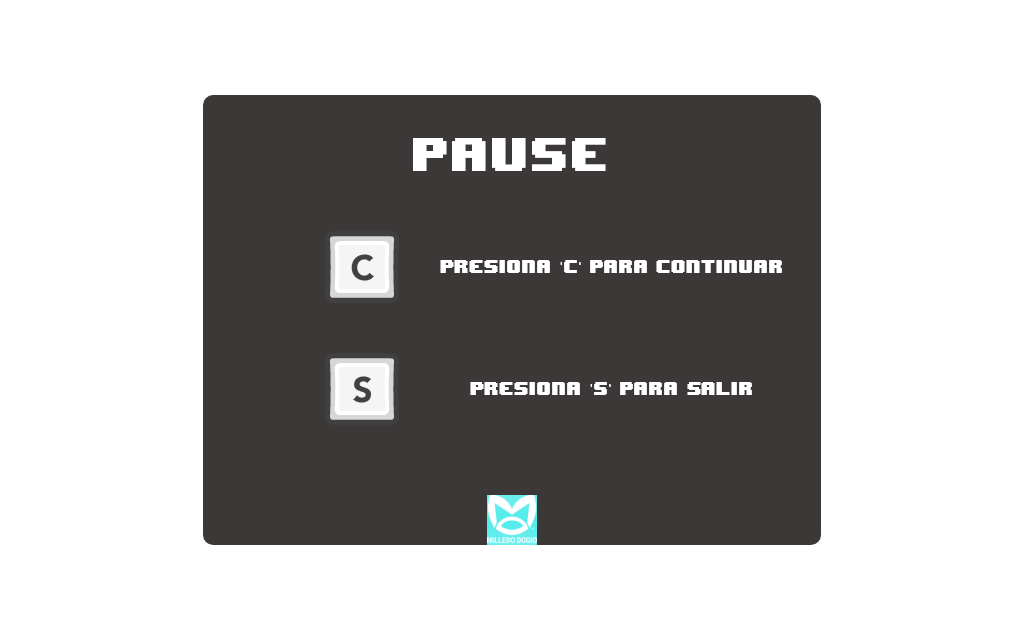
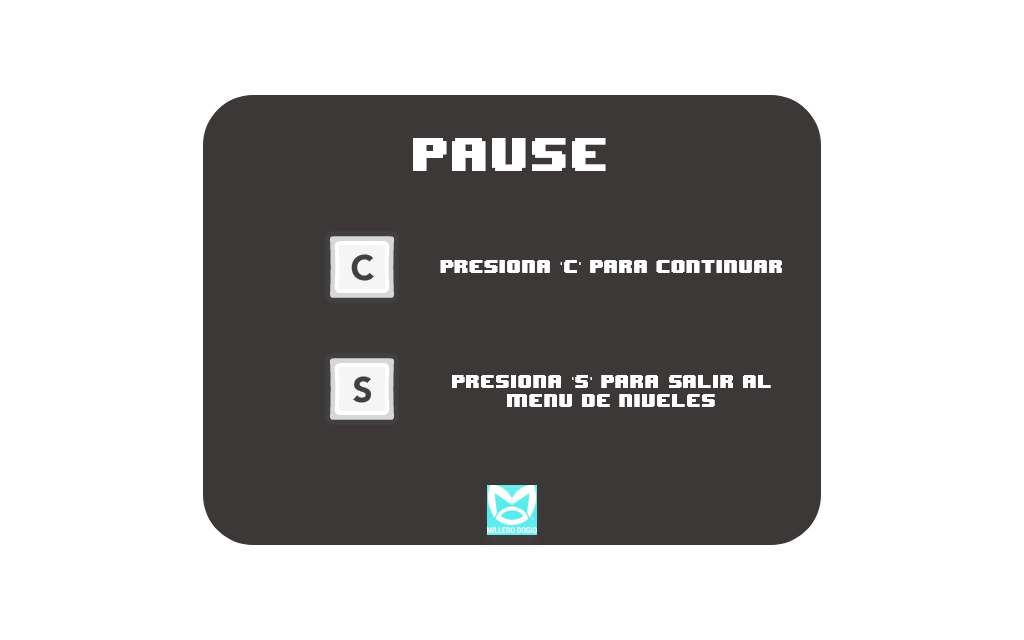
Jeje, ahi ta

diff --git a/main.py b/main.py
@@ -28,6 +28,7 @@ niveles = ['Depresion',
             'Regresar al menu principal']
 
 pause = False
+idioma = 0
 
 class Opcion:
 
@@ -252,6 +253,7 @@ class Depression_Level:
         self.walls = pg.sprite.Group()
         self.powerups = pg.sprite.Group()
         self.enemies = pg.sprite.Group()
+        self.proyectiles = pg.sprite.Group()
         self.current_frame = 0
         self.last_update = 0
         self.load_arrays()
@@ -315,6 +317,7 @@ class Depression_Level:
             if hits:
                 self.minion.pos.y = hits[0].rect.top + 1
                 self.minion.vel.y = 0
+            col_hit = pg.sprite.spritecollide(self.minion,self.proyectiles,True)
         pow_hits = pg.sprite.spritecollide(self.player, self.powerups, True)
 
             
@@ -378,8 +381,12 @@ class Depression_Level:
             self.screen.blit(sprite.image,self.camera.apply(sprite))
         self.screen.blit(self.lm,(WIDTH / 32 * 24, 0))    
         self.draw_text('Joystix.ttf', '= ' + str(self.score), 18, colors.WHITE, WIDTH / 32 * 27, 22)
-        self.draw_text('Joystix.ttf', 'Nivel de Depresion: 100%', 14, colors.WHITE, WIDTH / 32 * 25, 62)
-        self.draw_text('Joystix.ttf', 'Depresion - Area 1', 12, colors.WHITE, WIDTH / 32 * 16, 0)
+        if idioma == 0:
+            self.draw_text('Joystix.ttf', 'Depresion: 100%', 14, colors.WHITE, WIDTH / 32 * 25, 62)
+            self.draw_text('Joystix.ttf', 'Depresion - Nivel 1', 12, colors.WHITE, WIDTH / 32 * 16, 0)
+        else:
+            self.draw_text('Joystix.ttf', 'Depression: 100%', 14, colors.WHITE, WIDTH / 32 * 25, 62)
+            self.draw_text('Joystix.ttf', 'Depression - Level 1', 12, colors.WHITE, WIDTH / 32 * 16, 0)
         self.screen.blit(self.heart,(WIDTH / 32 * 13, 2))
         self.screen.blit(self.heart_2,(WIDTH / 32 * 15, 2))
         self.screen.blit(self.heart_3,(WIDTH / 32 * 17, 2))
@@ -415,7 +422,7 @@ class Depression_Level:
                     if event.key == pg.K_c:
                         self.unpased()
                     if event.key == pg.K_s:
-                        self.quitgame()
+                        select_level()
             pg.display.update()
             reloj.tick(FPS)
     
@@ -614,8 +621,12 @@ class Depression_Level_2:
             self.screen.blit(sprite.image,self.camera.apply(sprite))
         self.screen.blit(self.lm,(WIDTH / 32 * 24, 0))    
         self.draw_text('Joystix.ttf', '= ' + str(self.score), 18, colors.WHITE, WIDTH / 32 * 27, 22)
-        self.draw_text('Joystix.ttf', 'Nivel de Depresion: 75%', 14, colors.WHITE, WIDTH / 32 * 25, 62)
-        self.draw_text('Joystix.ttf', 'Depresion - Area 2', 12, colors.WHITE, WIDTH / 32 * 16, 0)
+        if idioma == 0:
+            self.draw_text('Joystix.ttf', 'Depresion: 75%', 14, colors.WHITE, WIDTH / 32 * 25, 62)
+            self.draw_text('Joystix.ttf', 'Depresion - Nivel 2', 12, colors.WHITE, WIDTH / 32 * 16, 0)
+        else:
+            self.draw_text('Joystix.ttf', 'Depression: 75%', 14, colors.WHITE, WIDTH / 32 * 25, 62)
+            self.draw_text('Joystix.ttf', 'Depression - Level 2', 12, colors.WHITE, WIDTH / 32 * 16, 0)
         self.screen.blit(self.heart,(WIDTH / 32 * 13, 2))
         self.screen.blit(self.heart_2,(WIDTH / 32 * 15, 2))
         self.screen.blit(self.heart_3,(WIDTH / 32 * 17, 2))
@@ -692,7 +703,7 @@ class Drugs_level:
         self.breath_player = Spritesheet(os.path.join(img_folder,BREATH_DRUGS))
         self.walk_player = Spritesheet(os.path.join(img_folder,WALK_DRUGS))
         self.snd_dir = os.path.join(self.dir, 'snd')
-        self.background = pg.image.load("img/City Re-Sized(Night)(Scenario).png").convert_alpha()
+        self.background = pg.image.load("img/Fondo Drogas.png").convert_alpha()
     
 
     def new(self):
@@ -811,7 +822,10 @@ class Drugs_level:
             self.screen.blit(sprite.image,self.camera.apply(sprite))
         self.screen.blit(self.img_score,(WIDTH / 32 * 24, 0))    
         self.draw_text('Joystix.ttf', '= ' + str(self.score), 18, colors.WHITE, WIDTH / 32 * 27, 22)
-        self.draw_text('Joystix.ttf', 'Drogas - Nivel 1', 12, colors.WHITE, WIDTH / 32 * 16, 0)
+        if idioma == 0:
+            self.draw_text('Joystix.ttf', 'Drogas - Nivel 1', 12, colors.WHITE, WIDTH / 32 * 16, 0)
+        else:
+            self.draw_text('Joystix.ttf', 'Drugs - Level 1', 12, colors.WHITE, WIDTH / 32 * 16, 0)
         self.screen.blit(self.heart,(WIDTH / 32 * 13, 2))
         self.screen.blit(self.heart_2,(WIDTH / 32 * 15, 2))
         self.screen.blit(self.heart_3,(WIDTH / 32 * 17, 2))
@@ -890,11 +904,11 @@ class Anorexia_Level:
                 self.highscore = int(f.read())
             except:
                 self.highscore = 0
-        self.map = Map(os.path.join(game_folder,'maps/Depression - map_1.txt'))
+        self.map = Map(os.path.join(game_folder,'maps/Anorexia - map_1.txt'))
         self.spritesheet_mariana = Spritesheet(os.path.join(img_folder,MARIANA_SPRITESHEET))
         #self.heart_anim = Spritesheet(os.path.join(img_folder,HEART_ANIM))
         #self.heart_ly_anim = Spritesheet(os.path.join(img_folder,HEART_LY_ANIM))
-        self.background = pg.image.load("img/City_Back.png").convert_alpha()
+        self.background = pg.image.load("img/Fondo Anorexia.png").convert_alpha()
         self.snd_dir = os.path.join(self.dir, 'snd')
     
 
@@ -1015,7 +1029,10 @@ class Anorexia_Level:
             self.screen.blit(sprite.image,self.camera.apply(sprite))
         self.screen.blit(self.lm,(WIDTH / 32 * 24, 0))    
         self.draw_text('Joystix.ttf', '= ' + str(self.score), 18, colors.WHITE, WIDTH / 32 * 27, 22)
-        self.draw_text('Joystix.ttf', 'Anorexia - Level 1', 12, colors.WHITE, WIDTH / 32 * 16, 0)
+        if idioma == 0:
+            self.draw_text('Joystix.ttf', 'Anorexia - Area 1', 12, colors.WHITE, WIDTH / 32 * 16, 0)
+        else:
+            self.draw_text('Joystix.ttf', 'Anorexia - Level 1', 12, colors.WHITE, WIDTH / 32 * 16, 0)
         self.screen.blit(self.heart,(WIDTH / 32 * 13, 2))
         self.screen.blit(self.heart_2,(WIDTH / 32 * 15, 2))
         self.screen.blit(self.heart_3,(WIDTH / 32 * 17, 2))
@@ -1078,7 +1095,7 @@ class Obesidad_Level:
         self.spritesheet_don_juan = Spritesheet(os.path.join(img_folder,JUAN_SPRITESHEET))
         #self.heart_anim = Spritesheet(os.path.join(img_folder,HEART_ANIM))
         #self.heart_ly_anim = Spritesheet(os.path.join(img_folder,HEART_LY_ANIM))
-        self.background = pg.image.load("img/City_Back.png").convert_alpha()
+        self.background = pg.image.load("img/Estadio_Obesity.png").convert_alpha()
         self.snd_dir = os.path.join(self.dir, 'snd')
     
 
@@ -1262,7 +1279,7 @@ class ETS_Level:
         self.spritesheet_macho = Spritesheet(os.path.join(img_folder,MACHO_SPRITESHEET))
         #self.heart_anim = Spritesheet(os.path.join(img_folder,HEART_ANIM))
         #self.heart_ly_anim = Spritesheet(os.path.join(img_folder,HEART_LY_ANIM))
-        self.background = pg.image.load("img/City_Back.png").convert_alpha()
+        self.background = pg.image.load("img/Fondo ETS.png").convert_alpha()
         self.snd_dir = os.path.join(self.dir, 'snd')
     
 
@@ -1514,8 +1531,8 @@ def exit_out():
 def language():
     if __name__ == '__main__':
         salir = False
-        opciones = [('Spanish',main_menu),
-                    ('English', main_menu),
+        opciones = [('Spanish',espanol),
+                    ('English', ingles),
                     ('Salir',exit_out)]
 
     pg.font.init()
@@ -1537,14 +1554,30 @@ def language():
         pg.time.delay(10)
     pg.display.quit()
 
+def espanol():
+    global idioma
+    idioma = 0
+    main_menu()
+
+def ingles():
+    global idioma
+    idioma = 1
+    main_menu()
+
 
 def main_menu():
     if __name__ == '__main__':
         salir = False
-        opciones = [  (opciones_espanol[0], select_level),
-                        (opciones_espanol[1], options),
-                        (opciones_espanol[2], creditos),
-                        (opciones_espanol[3], exit_out)]
+        if idioma == 0:
+            opciones = [  (opciones_espanol[0], select_level),
+                            (opciones_espanol[1], options),
+                            (opciones_espanol[2], creditos),
+                            (opciones_espanol[3], exit_out)]
+        if idioma == 1:
+            opciones = [  (opciones_ingles[0], select_level),
+                            (opciones_ingles[1], options),
+                            (opciones_ingles[2], creditos),
+                            (opciones_ingles[3], exit_out)]
 
     pg.font.init()
     screen = pg.display.set_mode((WIDTH, HEIGHT))
@@ -1564,6 +1597,32 @@ def main_menu():
 
         pg.display.flip()
         pg.time.delay(10)
+
+def options():
+    if __name__ == '__main__':
+        salir = False
+        opciones = [('Cambiar Idioma',language),
+                    ('Audio', ingles),
+                    ('Regresar',main_menu)]
+
+    pg.font.init()
+    screen = pg.display.set_mode((WIDTH, HEIGHT))
+    fondo = pg.image.load("img/language_menu.png").convert()
+    menu = Menu(opciones,colors.WHITE)
+
+    while not salir:
+        for e in pg.event.get():
+            if e.type == QUIT:
+                salir = True
+                os.sys.exit()
+
+        screen.blit(fondo,(0,0))
+        menu.actualizar()
+        menu.imprimir(screen)
+
+        pg.display.flip()
+        pg.time.delay(10)
+    pg.display.quit()
 
 
 language()

diff --git a/sprites.py b/sprites.py
@@ -101,13 +101,12 @@ class Joseph(pg.sprite.Sprite):
         if keys[pg.K_SPACE] or keys[pg.K_UP] or keys[pg.K_w]:
             self.jump()
         if keys[pg.K_m]:
-            self.shoot = True
-            proyectil = Proyectil()
+            proyectil = Proyectil(self.pos.x,self.pos.y)
+            self.game.screen.blit(proyectil.image,(self.pos.x,self.pos.y))
             # Configuramos el proyectil de forma que esté donde el protagonista
-            proyectil.rect.x = self.rect.x + 20
-            proyectil.rect.y = self.rect.y + 20
             # Añadimos el proyectil a la lista
-            self.game.all_sprites.add(proyectil)
+            self.game.proyectiles.add(proyectil)
+            proyectil.update()
 
         self.acc.x += self.vel.x * PLAYER_FRICTION
         #Ecuaciones de Motricidad
@@ -482,10 +481,16 @@ class Minion_Depression(pg.sprite.Sprite):
     def update(self):
         self.animate()
         self.acc = vec(0,PLAYER_GRAV)
-        #keys = pg.key.get_pressed()
-
+        keys = pg.key.get_pressed()
+        
+        if keys[pg.K_LEFT] or keys[pg.K_a]:
+            self.acc.x = -ENEMY_ACC
+        if keys[pg.K_RIGHT] or keys[pg.K_d]:
+            self.acc.x = -ENEMY_ACC
+        if keys[pg.K_SPACE] or keys[pg.K_UP] or keys[pg.K_w]:
+            self.acc.x = -ENEMY_ACC
         #if self.pos.x < 0:
-            #self.acc.x = -PLAYER_ACC
+         #   self.acc.x = -PLAYER_ACC
         #if self.pos.x > 0:
          #   self.acc.x = PLAYER_ACC
 
@@ -495,14 +500,13 @@ class Minion_Depression(pg.sprite.Sprite):
         if abs(self.vel.x) < 0.1:
             self.vel.x = 0
         self.pos += self.vel + 0.5 * self.acc
-        # Se transporta al otro lado de la pantalla
+        # Se transporta al otro lado de la pantalla(Es bug, si, lo se)
         #if self.pos.x > self.game.map.width + self.rect.width / 2:
             #self.pos.x = 0 - self.rect.width / 2
         #if self.pos.x < 0 - self.rect.width / 2:
             #self.pos.x = self.game.map.width + self.rect.width / 2
 
         self.rect.midbottom = self.pos
-        self.move_towards_player(self.game.player)
     
     def animate(self):
         now = pg.time.get_ticks()
@@ -900,15 +904,20 @@ class Floor(pg.sprite.Sprite):
         self.x = x
         self.y = y
 
-class Proyectil(pg.sprite.Sprite):
-    def __init__(self):
-        #  Llama al constructor de la clase padre (Sprite)
-        super().__init__() 
- 
-        ball = pg.image.load("img/Depression/Energy_Ball.png")
-        self.image = ball
-        self.image.blit(ball,(0,0))
-        self.rect = self.image.get_rect()
+class Proyectil(pg.sprite.Sprite ):  #"heredamos" los métodos de la clase Sprite nativa en pygame
+    def __init__(self, pos_i_x, pos_i_y ): #inicializamos la clase con dos valores, de la posición inicial en "x" y en "y"
+        pg.sprite.Sprite.__init__(self) #inicializamos la clase que heredamos...
+        self.image = pg.image.load("img/Depression/Energy_Ball.png") #asumo, ya la tienes hecha :)
+        self.rect = self.image.get_rect() #obtenemos las "rectas" de nuestra imagen...
+        self.rect.center = (pos_i_x, pos_i_y) #colocamos la imagen en la posición inicial :)
+        #ahora, definiremos la velocidad de nuestra bala :)
+        self.dx = 0   # la velocidad en x 
+        self.dy = -3 # la velocidad en y, recuerda por que es negativa :)
+
+    def update(self):
+        self.rect.move_ip((self.dx, self.dy)) #esto mueve continuamente nuestra bala
+        if self.rect.y < 0 : #esto revisa si la bala sale por la parte superior de la pantalla :)
+            self.kill() #... y la destruye si sale
 
 class Pow_Coin(pg.sprite.Sprite):
     def __init__(self, game, x,y):

diff --git a/settings.py b/settings.py
@@ -3,6 +3,7 @@ import pygame as pg
 TITLE = "A Healthy Adventure | Milledo Dogio"
 
 PLAYER_ACC = 0.6
+ENEMY_ACC = 0.2
 PLAYER_FRICTION = -0.14
 PLAYER_GRAV = 0.8
 PLAYER_JUMP = 20
@@ -12,11 +13,6 @@ HS_FILE = "highscore.txt"
 FPS = 60
 WIDTH = 1024
 HEIGHT = 640
-
-PLATFORM_LIST = [(0, HEIGHT - 40, WIDTH, 40),
-                 (WIDTH / 2 - 50, HEIGHT * 3 / 4, 100, 20),
-                 (150, HEIGHT * 3 / 5,100,20),
-                 (400,HEIGHT * 3 / 7,100,20)]
 
 TILESIZE = 64
 GRIDWIDTH = WIDTH / TILESIZE
